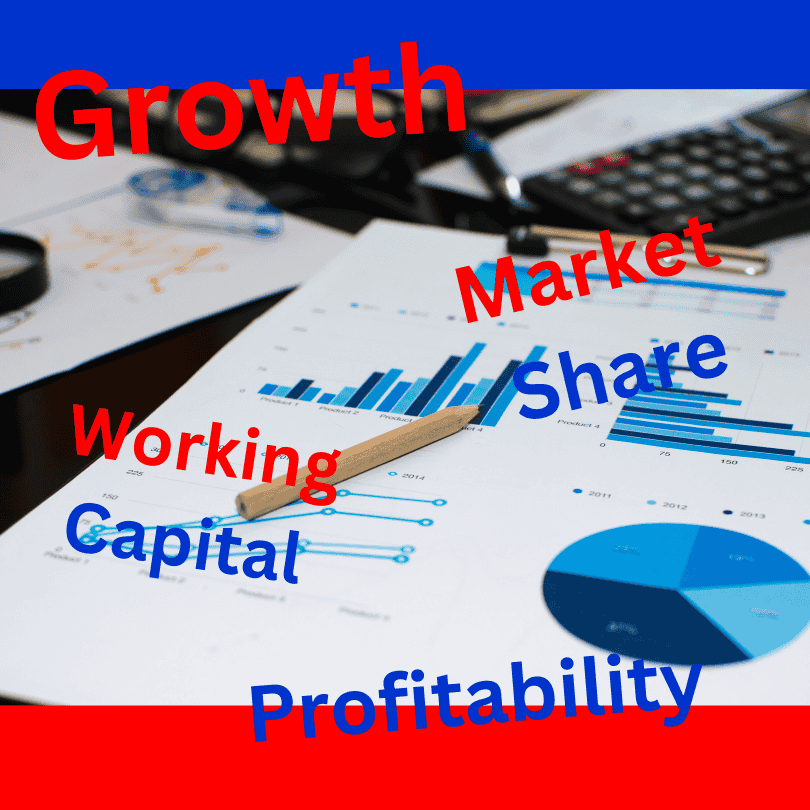
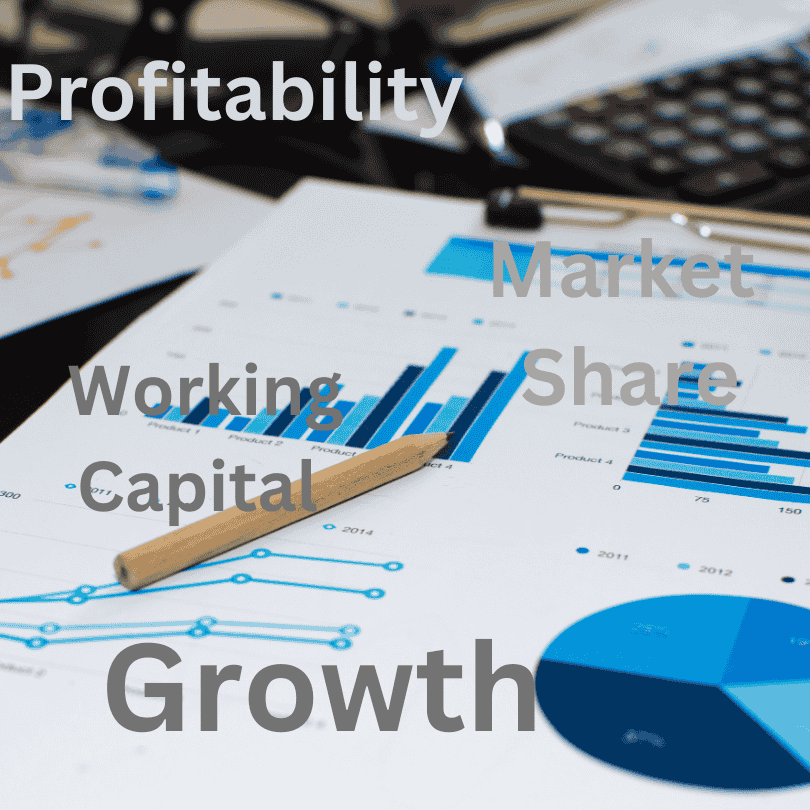
Fixed typos and readability _+ gaudy images on front page

diff --git a/content/_index.html b/content/_index.html
@@ -36,10 +36,10 @@ draft: true
         <img src="VISPECT.svg" alt="VISPECT Logo" class="card-img-top mx-auto d-block p-3" style="width: 50%;">
         <div class="card-body">
           <h2 class="card-title">Visual Inspection AI</h2>
-          <p class="card-text">Easy inspections<span class="text-info"> with even mobile phone cameras</span>
+          <p class="card-text"><span class="text-info">Easy inspections!</span> - start with just mobile phone cameras
           </p>
           <ul>
-            <li><span class="text-info">Reduce time, effort</span>and labor costs for complex inspection.</li>
+            <li><span class="text-info">Reduce time, effort</span> and labor costs for inspection.</li>
             <li><span class="text-info">Deskill inspection</span> - Flexibility to allocate without retraining. Use
               lower cost resources</li>
             <li><span class="text-info">Improve inspection quality</span>, as it does not fatigue the operator</li>
@@ -85,11 +85,9 @@ draft: true
         <h3>Enabled with AI
       </span>
       </h3>
-      <p class="lead"><span class="aicue-blue"><strong>AI</strong>CUE</span> enables <em>manufacturing</em>
-        companies
-        to use data science for decision making across
-        <em> activities </em> (from R&D to Operations to Sales) for enhancing business results
-      </p>
+      <p class="lead"><span class="aicue-blue"><strong>AI</strong>CUE</span> enables <em>manufacturing companies </em>
+        to use data science for decision making <em>across activities</em> (from R&D to Operations to Sales) for
+        enhancing business results </p>
     </div>
     <div class="col-md-5">
       <img class="featurette-image img-fluid mx-auto" alt="Growth profitability - enabled by AI" src="profit.png">

diff --git a/public/index.html b/public/index.html
@@ -135,10 +135,10 @@
         <img src="VISPECT.svg" alt="VISPECT Logo" class="card-img-top mx-auto d-block p-3" style="width: 50%;">
         <div class="card-body">
           <h2 class="card-title">Visual Inspection AI</h2>
-          <p class="card-text">Easy inspections<span class="text-info"> with even mobile phone cameras</span>
+          <p class="card-text"><span class="text-info">Easy inspections!</span> - start with just mobile phone cameras
           </p>
           <ul>
-            <li><span class="text-info">Reduce time, effort</span>and labor costs for complex inspection.</li>
+            <li><span class="text-info">Reduce time, effort</span> and labor costs for inspection.</li>
             <li><span class="text-info">Deskill inspection</span> - Flexibility to allocate without retraining. Use
               lower cost resources</li>
             <li><span class="text-info">Improve inspection quality</span>, as it does not fatigue the operator</li>
@@ -184,11 +184,9 @@
         <h3>Enabled with AI
       </span>
       </h3>
-      <p class="lead"><span class="aicue-blue"><strong>AI</strong>CUE</span> enables <em>manufacturing</em>
-        companies
-        to use data science for decision making across
-        <em> activities </em> (from R&D to Operations to Sales) for enhancing business results
-      </p>
+      <p class="lead"><span class="aicue-blue"><strong>AI</strong>CUE</span> enables <em>manufacturing companies </em>
+        to use data science for decision making <em>across activities</em> (from R&D to Operations to Sales) for
+        enhancing business results </p>
     </div>
     <div class="col-md-5">
       <img class="featurette-image img-fluid mx-auto" alt="Growth profitability - enabled by AI" src="profit.png">
